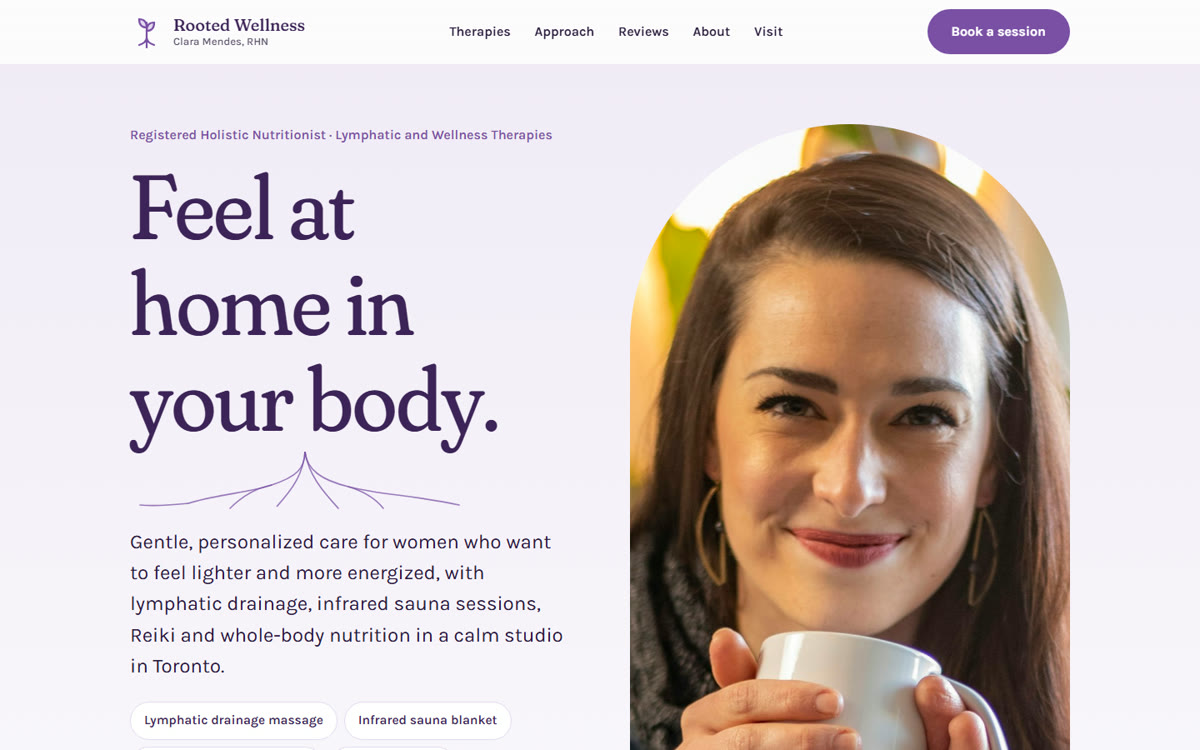
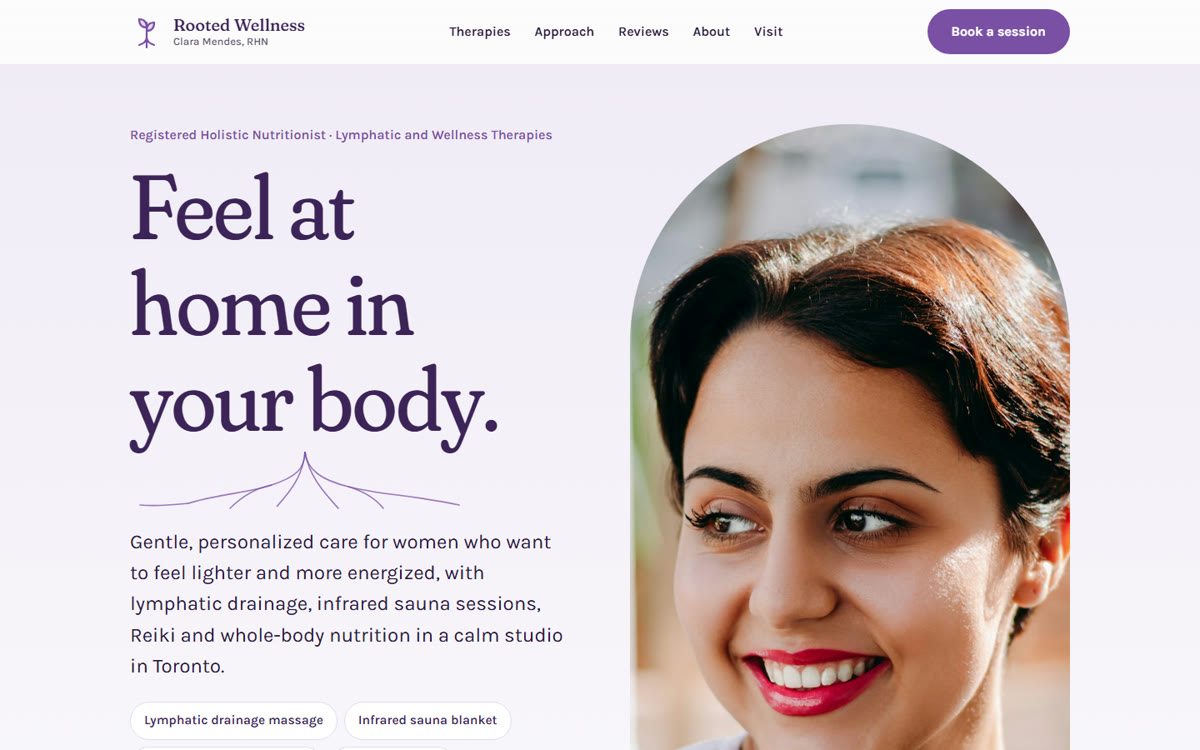
Rooted Wellness: troca a foto da capa (mão com defeito)

Changed region(s): [[0.5242, 0.1533, 0.8942, 1.0]]

diff --git a/rooted-wellness/index.html b/rooted-wellness/index.html
@@ -280,7 +280,7 @@ footer .brand img{background:#fff;border-radius:10px;padding:4px}
       </div>
     </div>
     <figure class="portrait">
-      <img src="assets/portrait.jpg" alt="Clara Mendes smiling, holding a mug" width="1300" height="1600" fetchpriority="high">
+      <img src="assets/portrait.jpg" alt="Clara Mendes smiling" width="1300" height="1600" fetchpriority="high">
       <figcaption><b>Your pace, your plan.</b>No rushing and no pushy packages, just care that fits you.</figcaption>
     </figure>
   </div>
